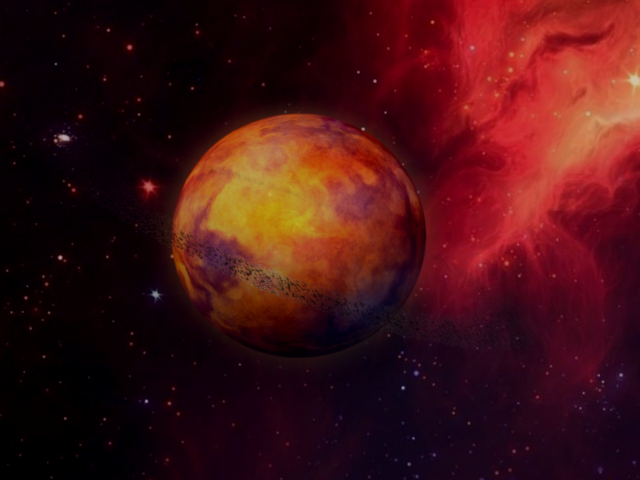
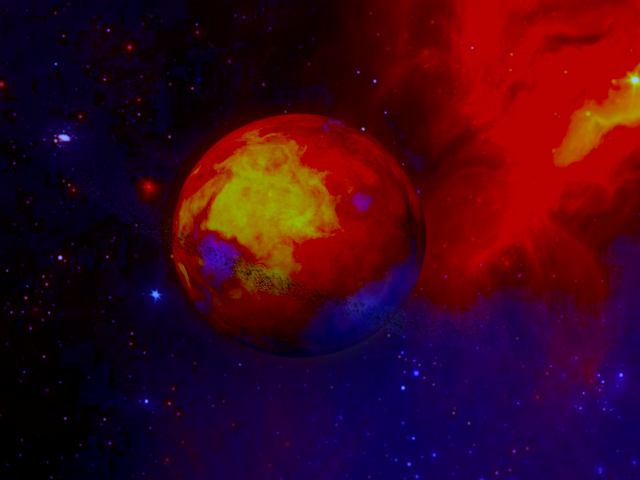
feat(minor): assets and minor shader order execution

diff --git a/src/Components/ComponentGame.cpp b/src/Components/ComponentGame.cpp
@@ -65,6 +65,9 @@ void ComponentGame::onStart()
 
     shaderTrailBuffer = new ShaderTrailBuffer();
     shaderTrailBuffer->setEnabled(true);
+
+    shaderEdge = new ShaderEdgeObject(Color::yellow());
+    shaderEdge->setEnabled(true);
 }
 
 void ComponentGame::preUpdate()
@@ -85,7 +88,8 @@ void ComponentGame::preUpdate()
         state == EngineSetup::GameState::GAMING ||
         state == EngineSetup::GameState::PRESSKEY_GAMEOVER ||
         state == EngineSetup::GameState::COUNTDOWN ||
-        state == EngineSetup::GameState::PRESSKEY_BY_DEAD
+        state == EngineSetup::GameState::PRESSKEY_BY_DEAD ||
+        state == EngineSetup::GameState::PRESSKEY_NEWLEVEL
     ) {
         shaderBackgroundImage->update();
     }
@@ -93,11 +97,7 @@ void ComponentGame::preUpdate()
 
 void ComponentGame::onUpdate()
 {
-    this->addObjectsToStencilBuffer();
-    shaderTrailBuffer->update();
-
-    shaderClouds->update();
-    shaderColor->update();
+    updateShaders();
 
     EngineSetup::GameState state = getGameState();
 
@@ -148,6 +148,7 @@ void ComponentGame::onUpdate()
             getLevelInfo()->getTutorialImage()->drawFlat(EngineSetup::get()->screenWidth/2-(getLevelInfo()->getTutorialImage()->width()/2), 40);
         }
     }
+
 }
 
 void ComponentGame::postUpdate()
@@ -216,7 +217,7 @@ void ComponentGame::setGameState(EngineSetup::GameState state)
         ComponentsManager::get()->getComponentRender()->setEnabled(true);
         ComponentsManager::get()->getComponentMenu()->setEnabled(true);
         setVisibleInGameObjects(false);
-        stopSilhouetteShader();
+        shaderEdge->setEnabled(false);
         startWaterShader();
         getPlayer()->stopBlinkForPlayer();
         getPlayer()->setEnergyShieldEnabled(false);
@@ -232,7 +233,7 @@ void ComponentGame::setGameState(EngineSetup::GameState state)
         ComponentsManager::get()->getComponentRender()->setEnabled(true);
         ComponentsManager::get()->getComponentCollisions()->setEnabled(true);
         shaderColor->setEnabled(false);
-        startSilhouetteShader();
+        shaderEdge->setEnabled(true);
         stopWaterShader();
         ComponentsManager::get()->getComponentGame()->getFadeToGameState()->setSpeed(FADE_SPEED_FROM_MENU_TO_GAMING);
     } else {
@@ -441,7 +442,6 @@ void ComponentGame::selectClosestObject3DFromPlayer()
             0
         );
         ComponentsManager::get()->getComponentRender()->setSelectedObject(currentClosestObject);
-        ComponentsManager::get()->getComponentRender()->updateSelectedObject3DInShaders(currentClosestObject);
     }
 }
 
@@ -473,20 +473,6 @@ FaderToGameStates *ComponentGame::getFadeToGameState() const
 {
     return fadeToGameState;
 }
-
-
-void ComponentGame::startSilhouetteShader()
-{
-    auto shader = ComponentsManager::get()->getComponentRender()->shaderEdge;
-    shader->setEnabled(true);
-}
-
-void ComponentGame::stopSilhouetteShader()
-{
-    auto shader = ComponentsManager::get()->getComponentRender()->shaderEdge;
-    shader->setEnabled(false);
-}
-
 
 void ComponentGame::startWaterShader()
 {
@@ -689,4 +675,15 @@ void ComponentGame::addObjectsToStencilBuffer()
             this->shaderTrailBuffer->addStencilBufferObject(object);
         }
     }
+}
+
+void ComponentGame::updateShaders()
+{
+    addObjectsToStencilBuffer();
+    shaderTrailBuffer->update();
+
+    shaderClouds->update();
+    shaderColor->update();
+    shaderEdge->setObject(ComponentsManager::get()->getComponentRender()->getSelectedObject());
+    shaderEdge->update();
 }

diff --git a/src/Components/ComponentRender.cpp b/src/Components/ComponentRender.cpp
@@ -8,12 +8,7 @@ void ComponentRender::onStart()
 {
     Logging::Log("ComponentRender onStart", "ComponentRender");
     initTiles();
-    initializeShaders();
     initOpenCL();
-    shaderEdge = new ShaderEdgeObject();
-    shaderEdge->setPhaseRender(EngineSetup::ShadersPhaseRender::PREUPDATE);
-    shaderEdge->setColor(Color::green());
-    shaderEdge->setEnabled(true);
 }
 
 void ComponentRender::preUpdate()
@@ -23,8 +18,6 @@ void ComponentRender::preUpdate()
     if (!isEnabled()) {
         return;
     }
-
-    this->onUpdatePreUpdateShaders();
 
 }
 
@@ -70,7 +63,6 @@ void ComponentRender::onUpdate()
         Drawable::drawMainAxis(ComponentsManager::get()->getComponentCamera()->getCamera());
     }
 
-    shaderEdge->update();
 }
 
 void ComponentRender::postUpdate() {
@@ -95,23 +87,13 @@ void ComponentRender::updateSelectedObject3D()
             input->getRelativeRendererMouseX(),
             input->getRelativeRendererMouseY()
         );
-
-        updateSelectedObject3DInShaders(selectedObject);
     }
 
     if (input->isClickRight() && !input->isMouseMotion()) {
         setSelectedObject(nullptr);
-        updateSelectedObject3DInShaders(nullptr);
     }
 }
 
-void ComponentRender::updateSelectedObject3DInShaders(Object3D *object)
-{
-    shaderEdge->setObject(object);
-
-    //auto *smoke = dynamic_cast<ShaderSmoke *>(ComponentsManager::get()->getComponentRender()->getShaderByType(EngineSetup::SMOKE));
-    //smoke->setObject(object);
-}
 
 std::vector<Triangle *> &ComponentRender::getFrameTriangles() {
     return frameTriangles;
@@ -943,48 +925,6 @@ void ComponentRender::updateLights()
 
 std::string ComponentRender::getUniqueGameObjectLabel() {
     return std::to_string(getSceneObjects()->size()+1);
-}
-
-void ComponentRender::onUpdatePreUpdateShaders() {
-    for (auto shader : shaders) {
-        if (shader.second->getPhaseRender() == EngineSetup::ShadersPhaseRender::PREUPDATE) {
-            shader.second->update();
-        }
-    }
-}
-void ComponentRender::onUpdatePostUpdateShaders() {
-    for (auto shader : shaders) {
-        if (shader.second->getPhaseRender() == EngineSetup::ShadersPhaseRender::POSTUPDATE) {
-            shader.second->update();
-        }
-    }
-}
-void ComponentRender::addShader(int id, std::string label, Shader *shader) {
-    shader->setLabel(label);
-
-    std::pair<int, Shader*> pair;
-    pair.first = id;
-    pair.second = shader;
-    shaders.insert(pair);
-}
-
-Shader* ComponentRender::getShaderByType(int id) {
-    for (auto shader : shaders) {
-        if (shader.first == id) {
-            return shader.second;
-        }
-    }
-}
-
-void ComponentRender::initializeShaders()
-{
-    //addShader(EngineSetup::ShaderTypes::WATER, "Water", new ShaderWater());
-    //addShader(EngineSetup::ShaderTypes::FIRE, "Fire", new ShaderFire());
-    //addShader(EngineSetup::ShaderTypes::SMOKE, "Smoke", new ShaderSmoke());
-}
-
-const std::map<int, Shader *> &ComponentRender::getShaders() {
-    return shaders;
 }
 
 Object3D* ComponentRender::getObject3DFromClickPoint(int xClick, int yClick)

diff --git a/include/GUI/GUIManager.h b/include/GUI/GUIManager.h
@@ -8,7 +8,6 @@
 #include "GUI_Camera.h"
 #include "GUI_Tiles.h"
 #include "GUI_Weapons.h"
-#include "GUI_Shaders.h"
 
 class GUIManager : public GUI {
 public:
@@ -17,7 +16,6 @@ public:
     GUI_Camera *guiCamera;
     GUI_Tiles *guiTiles;
     GUI_Weapons *guiWeapons;
-    GUI_Shaders *guiShaders;
 
     GUIManager() {
         guiMenu = new GUI_Menu();
@@ -25,7 +23,6 @@ public:
         guiCamera = new GUI_Camera();
         guiTiles = new GUI_Tiles();
         guiWeapons = new GUI_Weapons();
-        guiShaders = new GUI_Shaders();
     }
 
     virtual void draw(
@@ -35,8 +32,7 @@ public:
             std::vector<Object3D *> &gameObjects,
             std::vector<LightPoint3D *> &lightPoints,
             std::vector<Tile> &tiles,
-            int numTilesColumns,
-            std::map<int, Shader*> shaders
+            int numTilesColumns
     ) {
         bool show_demo_window = true;
         //ImGui::ShowDemoWindow(&show_demo_window);
@@ -47,7 +43,6 @@ public:
                 guiCamera->show,
                 guiTiles->show,
                 guiWeapons->show,
-                guiShaders->show,
                 cam
         );
 
@@ -55,7 +50,6 @@ public:
         guiCamera->draw(cam);
         guiTiles->draw(cam, tiles, numTilesColumns);
         guiWeapons->draw();
-        guiShaders->draw(shaders);
     }
 };
 

diff --git a/include/Components/ComponentRender.h b/include/Components/ComponentRender.h
@@ -19,8 +19,6 @@
 #include "ComponentWindow.h"
 #include "ComponentCollisions.h"
 #include "ComponentCamera.h"
-#include "../Render/Shader.h"
-#include "../../darkheaz/src/shaders/ShaderEdgeObject.h"
 #include <CL/cl.h>
 
 class ComponentRender : public Component {
@@ -128,30 +126,18 @@ public:
 
     cl_command_queue clCommandQueue;
 
-    ShaderEdgeObject *shaderEdge;
-
-    Shader *getShaderByType(int id);
-
-    const std::map<int, Shader *> &getShaders();
-
     Object3D* getSelectedObject() const;
 
     void setSelectedObject(Object3D *o);
 
-    void updateSelectedObject3DInShaders(Object3D *object);
-
     void initOpenCL();
 
+
+
 private:
-    std::map<int, Shader*> shaders;
-    void onUpdatePreUpdateShaders();
-    void onUpdatePostUpdateShaders();
 
     Object3D *getObject3DFromClickPoint(int xClick, int yClick);
 
-    void addShader(int id, std::string label, Shader *shader);
-
-    void initializeShaders();
 
     void updateSelectedObject3D();
     void onPostUpdateSceneObjects();

diff --git a/include/GUI/GUI_Menu.h b/include/GUI/GUI_Menu.h
@@ -25,7 +25,6 @@ public:
             bool &show_camera_info,
             bool &show_window_physics,
             bool &show_window_weapons,
-            bool &show_window_shaders,
             Camera3D *cam
     ) {
 
@@ -338,7 +337,6 @@ public:
                 ImGui::Separator();
                 ImGui::Checkbox("Tiles", &show_window_physics);
                 ImGui::Checkbox("Weapons", &show_window_weapons);
-                ImGui::Checkbox("Shaders", &show_window_shaders);
                 ImGui::Separator();
                 ImGui::Checkbox("Draw main Frustum", &EngineSetup::get()->DRAW_FRUSTUM);
                 ImGui::Separator();

diff --git a/include/Components/ComponentGame.h b/include/Components/ComponentGame.h
@@ -63,6 +63,7 @@ public:
     ShaderImage *shaderBackgroundImage;
     ShaderColor *shaderColor;
     ShaderTrailBuffer *shaderTrailBuffer;
+    ShaderEdgeObject *shaderEdge;
 
     void setGameState(EngineSetup::GameState state);
     EngineSetup::GameState getGameState();
@@ -79,8 +80,6 @@ private:
 
     void loadLevels();
 
-    void startSilhouetteShader();
-    void stopSilhouetteShader();
     void startWaterShader();
     void stopWaterShader();
 
@@ -112,6 +111,8 @@ public:
     void silenceInGameObjects();
 
     void addObjectsToStencilBuffer();
+
+    void updateShaders();
 };
 
 

diff --git a/src/Brakeza3D.cpp b/src/Brakeza3D.cpp
@@ -210,8 +210,7 @@ void Brakeza3D::ImGuiOnUpdate() {
             Brakeza3D::get()->getSceneObjects(),
             Brakeza3D::get()->getComponentsManager()->getComponentRender()->getLightPoints(),
             Brakeza3D::get()->getComponentsManager()->getComponentRender()->tiles,
-            Brakeza3D::get()->getComponentsManager()->getComponentRender()->tilesWidth,
-            Brakeza3D::get()->getComponentsManager()->getComponentRender()->getShaders()
+            Brakeza3D::get()->getComponentsManager()->getComponentRender()->tilesWidth
     );
 
     //ImGui::ShowDemoWindow();

diff --git a/darkheaz/src/shaders/ShaderEdgeObject.cpp b/darkheaz/src/shaders/ShaderEdgeObject.cpp
@@ -1,16 +1,13 @@
-//
-// Created by eduardo on 14/11/22.
-//
-
 #include "ShaderEdgeObject.h"
 #include "../../../include/EngineSetup.h"
 #include "../../../include/EngineBuffers.h"
 #include "../../../include/Render/Logging.h"
 #include "../../../include/Brakeza3D.h"
 
-ShaderEdgeObject::ShaderEdgeObject() : ShaderOpenCL("edge.opencl")
+ShaderEdgeObject::ShaderEdgeObject(Color c) : ShaderOpenCL("edge.opencl")
 {
     object = nullptr;
+    color = c;
 
     opencl_buffer_stencil = clCreateBuffer(
         context,

diff --git a/darkheaz/src/enemies/EnemyGhost.cpp b/darkheaz/src/enemies/EnemyGhost.cpp
@@ -169,7 +169,7 @@ void EnemyGhost::remove()
 {
     if (ComponentsManager::get()->getComponentRender()->getSelectedObject() == this) {
         ComponentsManager::get()->getComponentRender()->setSelectedObject(nullptr);
-        ComponentsManager::get()->getComponentRender()->updateSelectedObject3DInShaders(nullptr);
+        //ComponentsManager::get()->getComponentRender()->updateSelectedObject3DInShaders(nullptr);
     }
 
     Mesh3DGhost::remove();

diff --git a/src/Components/ComponentGameInput.cpp b/src/Components/ComponentGameInput.cpp
@@ -290,7 +290,6 @@ void ComponentGameInput::handleFindClosestObject3D(SDL_Event *event)
 
     if (event->type == SDL_CONTROLLERBUTTONDOWN && event->cbutton.button == SDL_CONTROLLER_BUTTON_RIGHTSHOULDER) {
         ComponentsManager::get()->getComponentRender()->setSelectedObject(nullptr);
-        ComponentsManager::get()->getComponentRender()->updateSelectedObject3DInShaders(nullptr);
     }
 }
 

diff --git a/darkheaz/src/shaders/ShaderEdgeObject.h b/darkheaz/src/shaders/ShaderEdgeObject.h
@@ -18,7 +18,7 @@ class ShaderEdgeObject : public ShaderOpenCL {
     Color color;
 
 public:
-    ShaderEdgeObject();
+    ShaderEdgeObject(Color c);
 
     void update() override;
 
